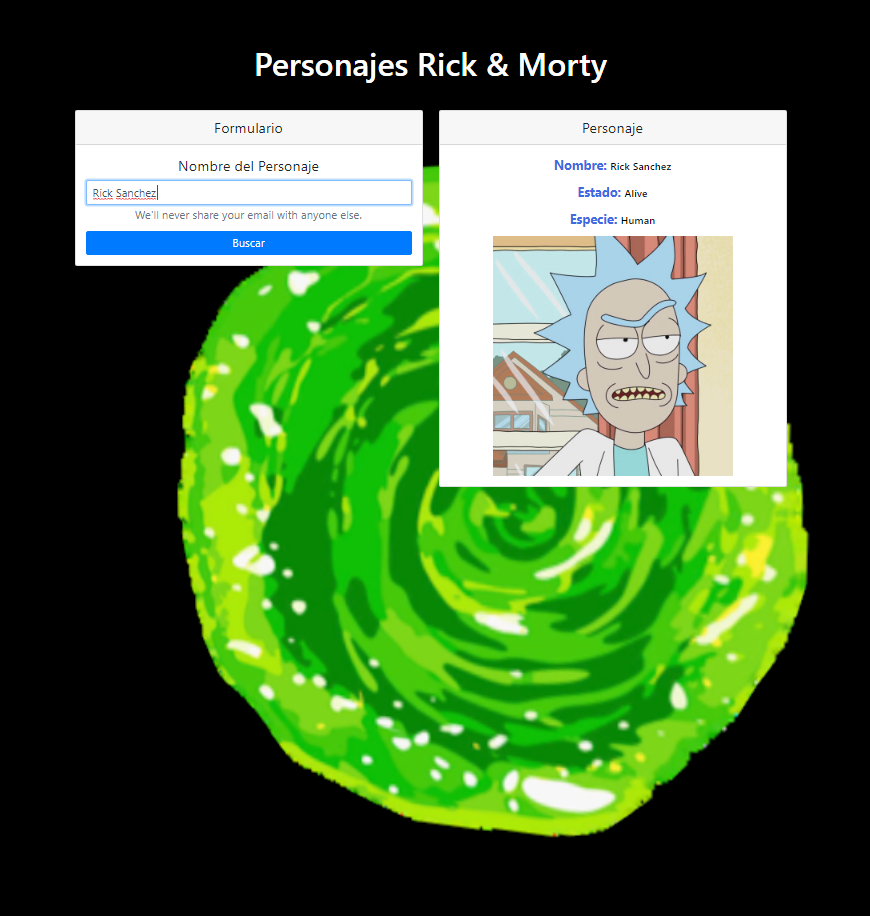
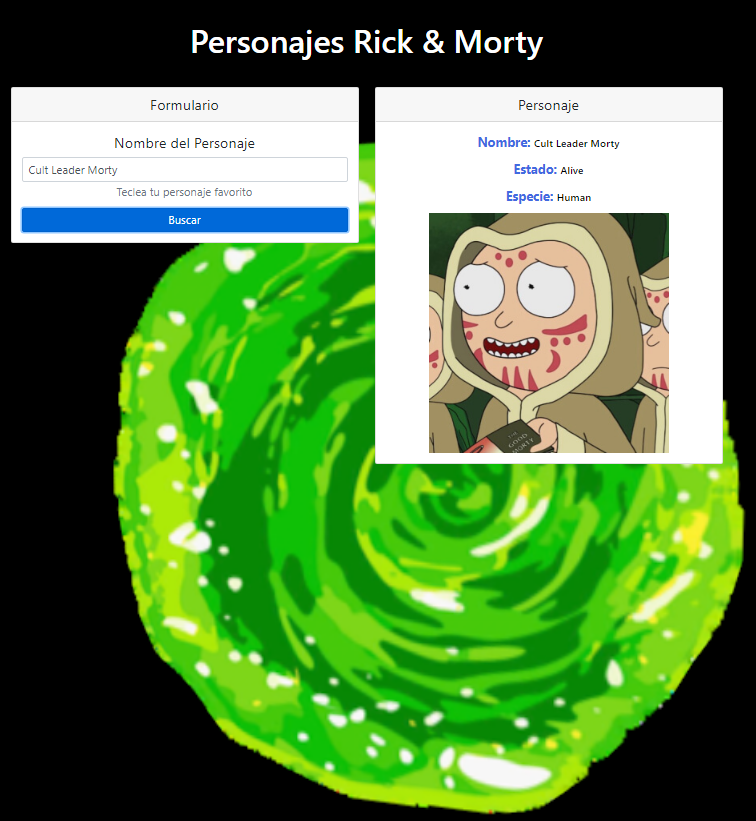
corrección menor

diff --git a/src/index.html b/src/index.html
@@ -30,7 +30,7 @@
                             <div class="form-group">
                                 <label for="name" class="fntsz">Nombre del Personaje</label>
                                 <input  type="text" class=" fntsz-secundary form-control" id="name" autofocus>
-                                <small id="emailHelp" class="fntsz-secundary form-text text-muted">We'll never share your email with anyone else.</small>
+                                <small id="emailHelp" class="fntsz-secundary form-text text-muted">Teclea tu personaje favorito</small>
                                 <div class="" id="mensaje-error">
 
                                 </div>
